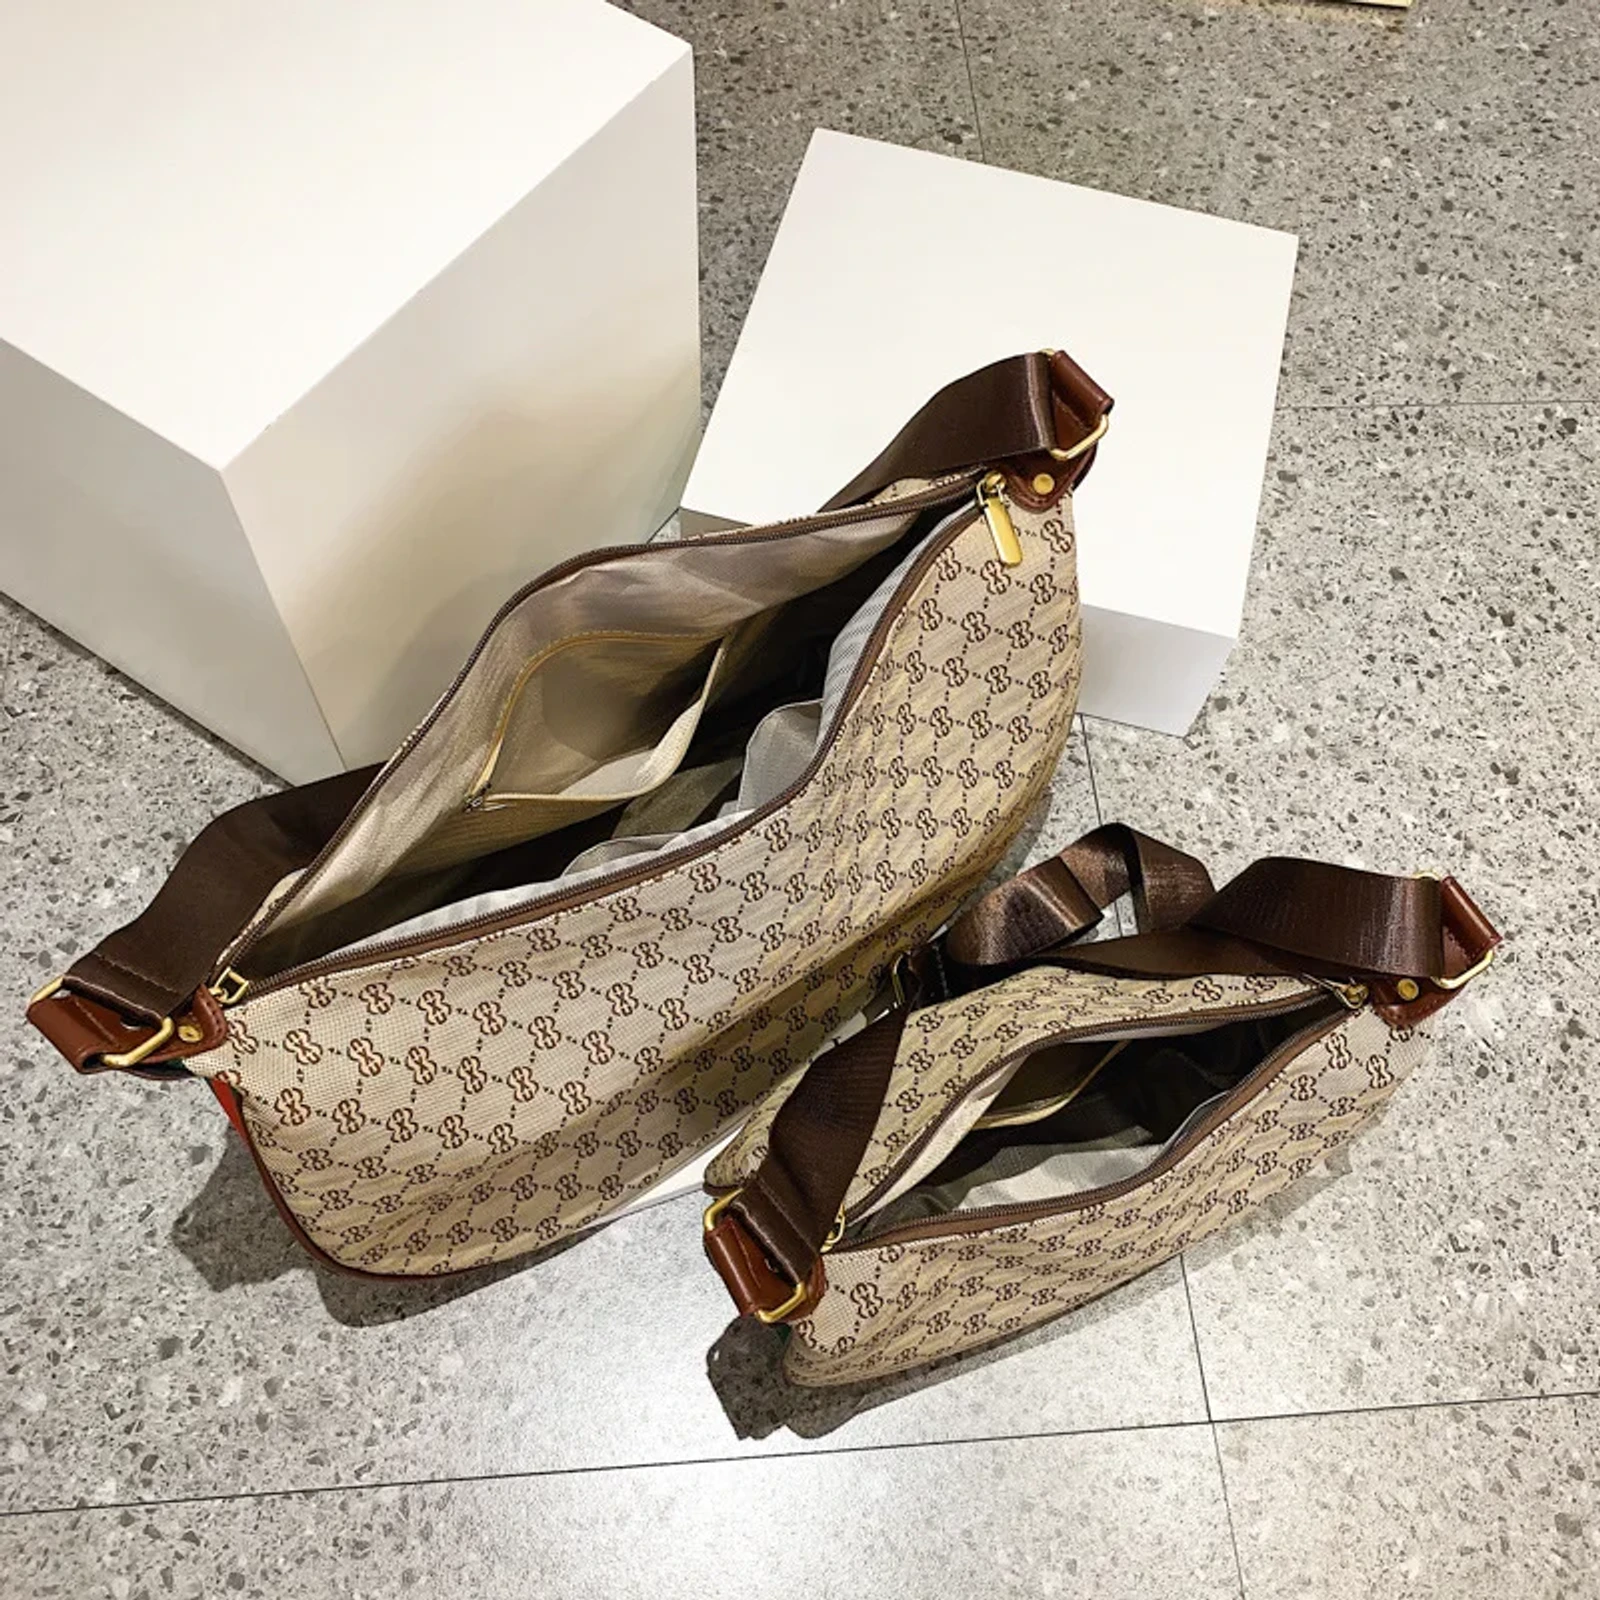
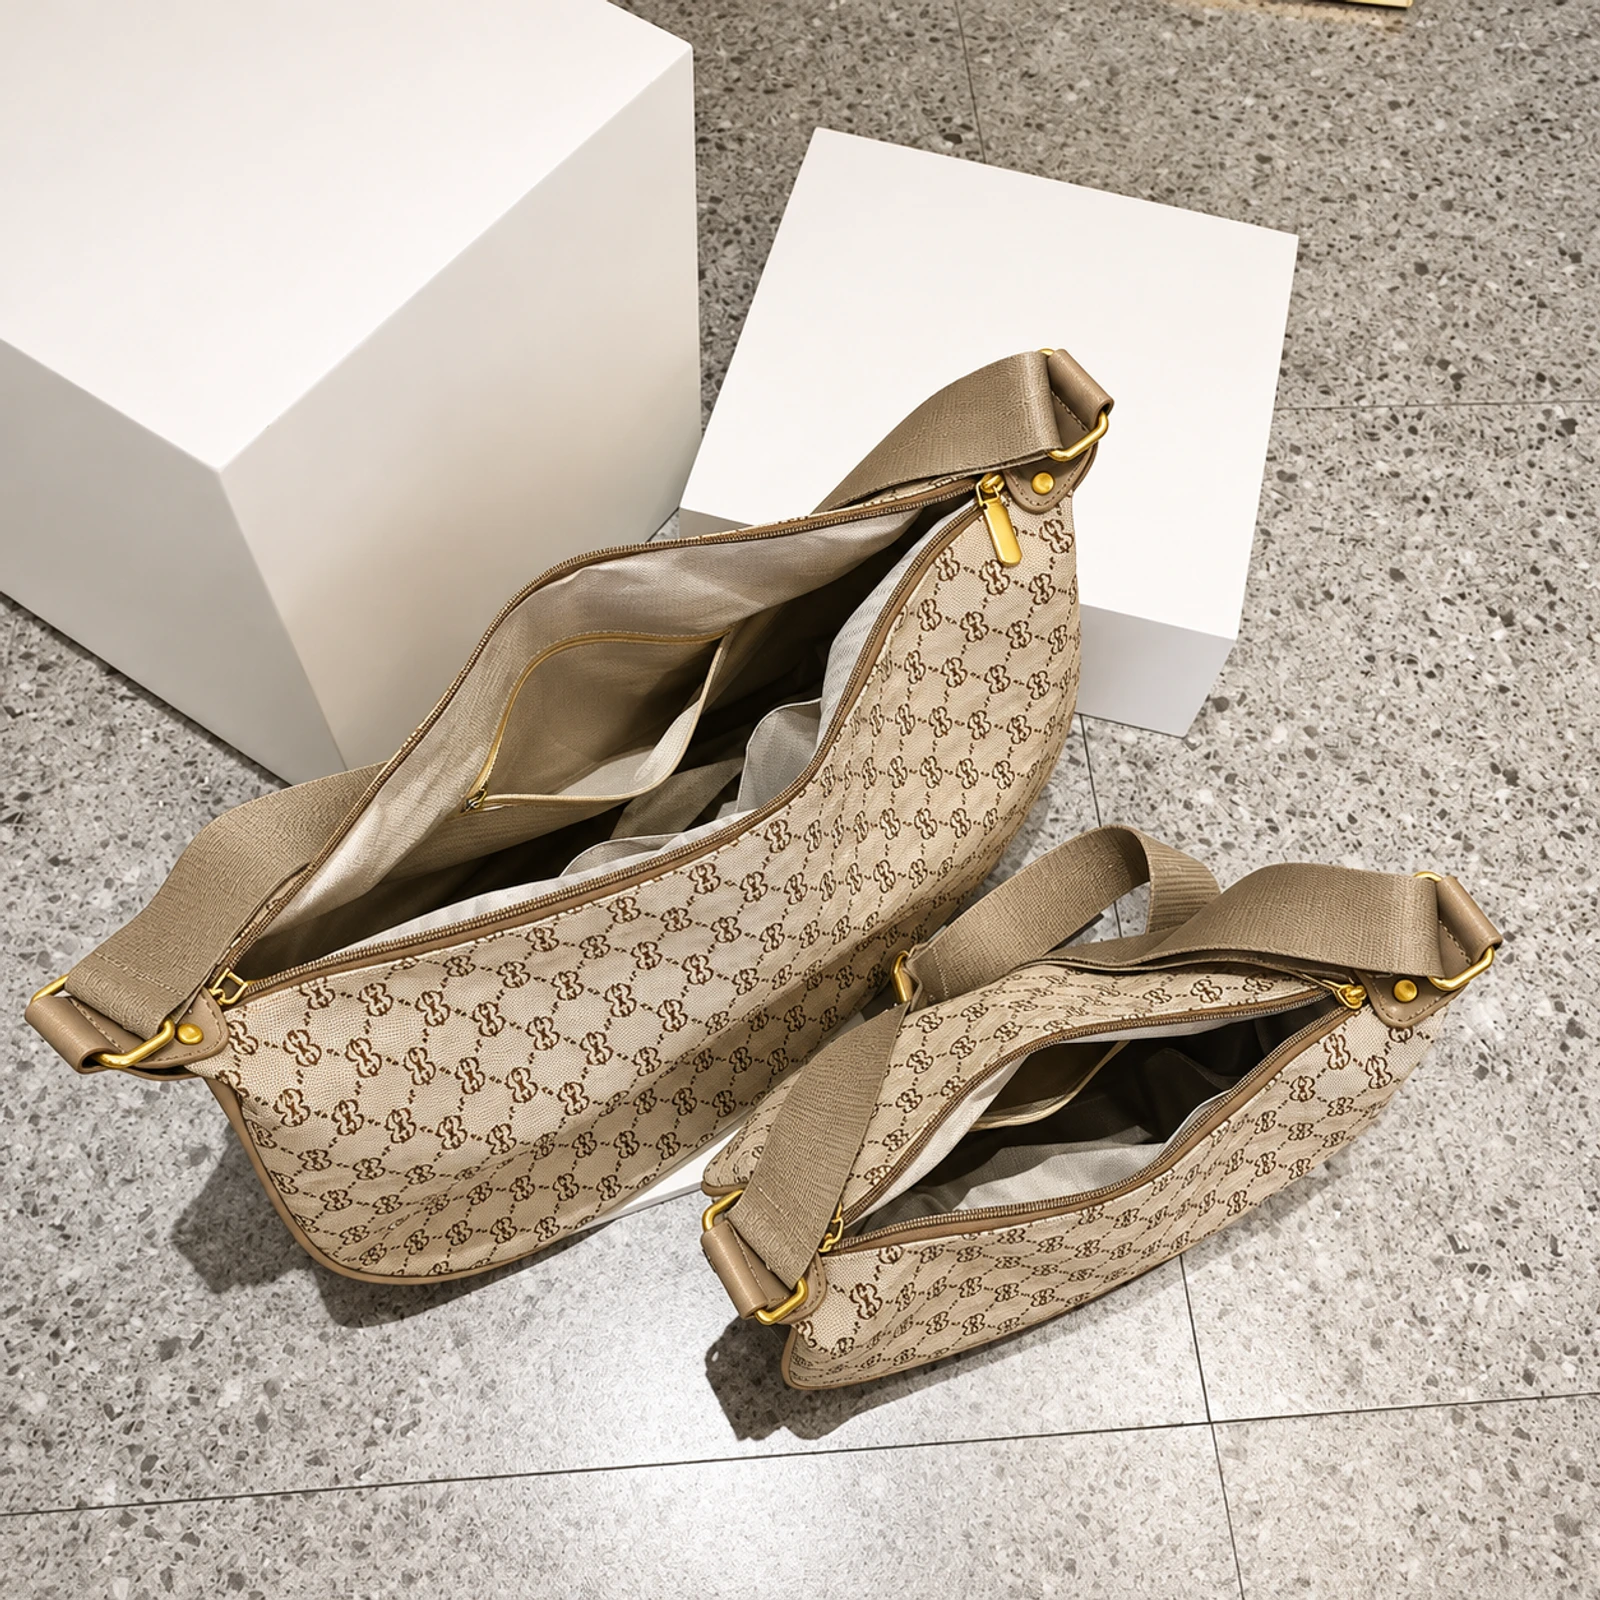
Match the Mirella interior photo to the khaki finish

Changed region(s): [[0.0, 0.0, 1.0, 1.0]]

diff --git a/app/generated-products.ts b/app/generated-products.ts
@@ -31316,7 +31316,7 @@ const allGeneratedProducts: Product[] = [
   "sizes": [
     "One Size"
   ],
-  "description": "A large crescent shoulder bag with a repeating pattern, khaki trim and an adjustable strap. The interior photo shows the same large model in brown on the left.",
+  "description": "A large crescent shoulder bag with a repeating pattern, khaki trim and an adjustable strap. The large bag is on the left. The exterior color in the inside view was adjusted to show the Khaki finish.",
   "materials": "See the product label for material details.",
   "care": "Follow the product care label.",
   "images": [
@@ -31350,7 +31350,7 @@ const allGeneratedProducts: Product[] = [
   "sizes": [
     "One Size"
   ],
-  "description": "A compact crescent shoulder bag with a repeating pattern, khaki trim and an adjustable strap. The interior photo shows the same small model in brown on the right.",
+  "description": "A compact crescent shoulder bag with a repeating pattern, khaki trim and an adjustable strap. The small bag is on the right. The exterior color in the inside view was adjusted to show the Khaki finish.",
   "materials": "See the product label for material details.",
   "care": "Follow the product care label.",
   "images": [
